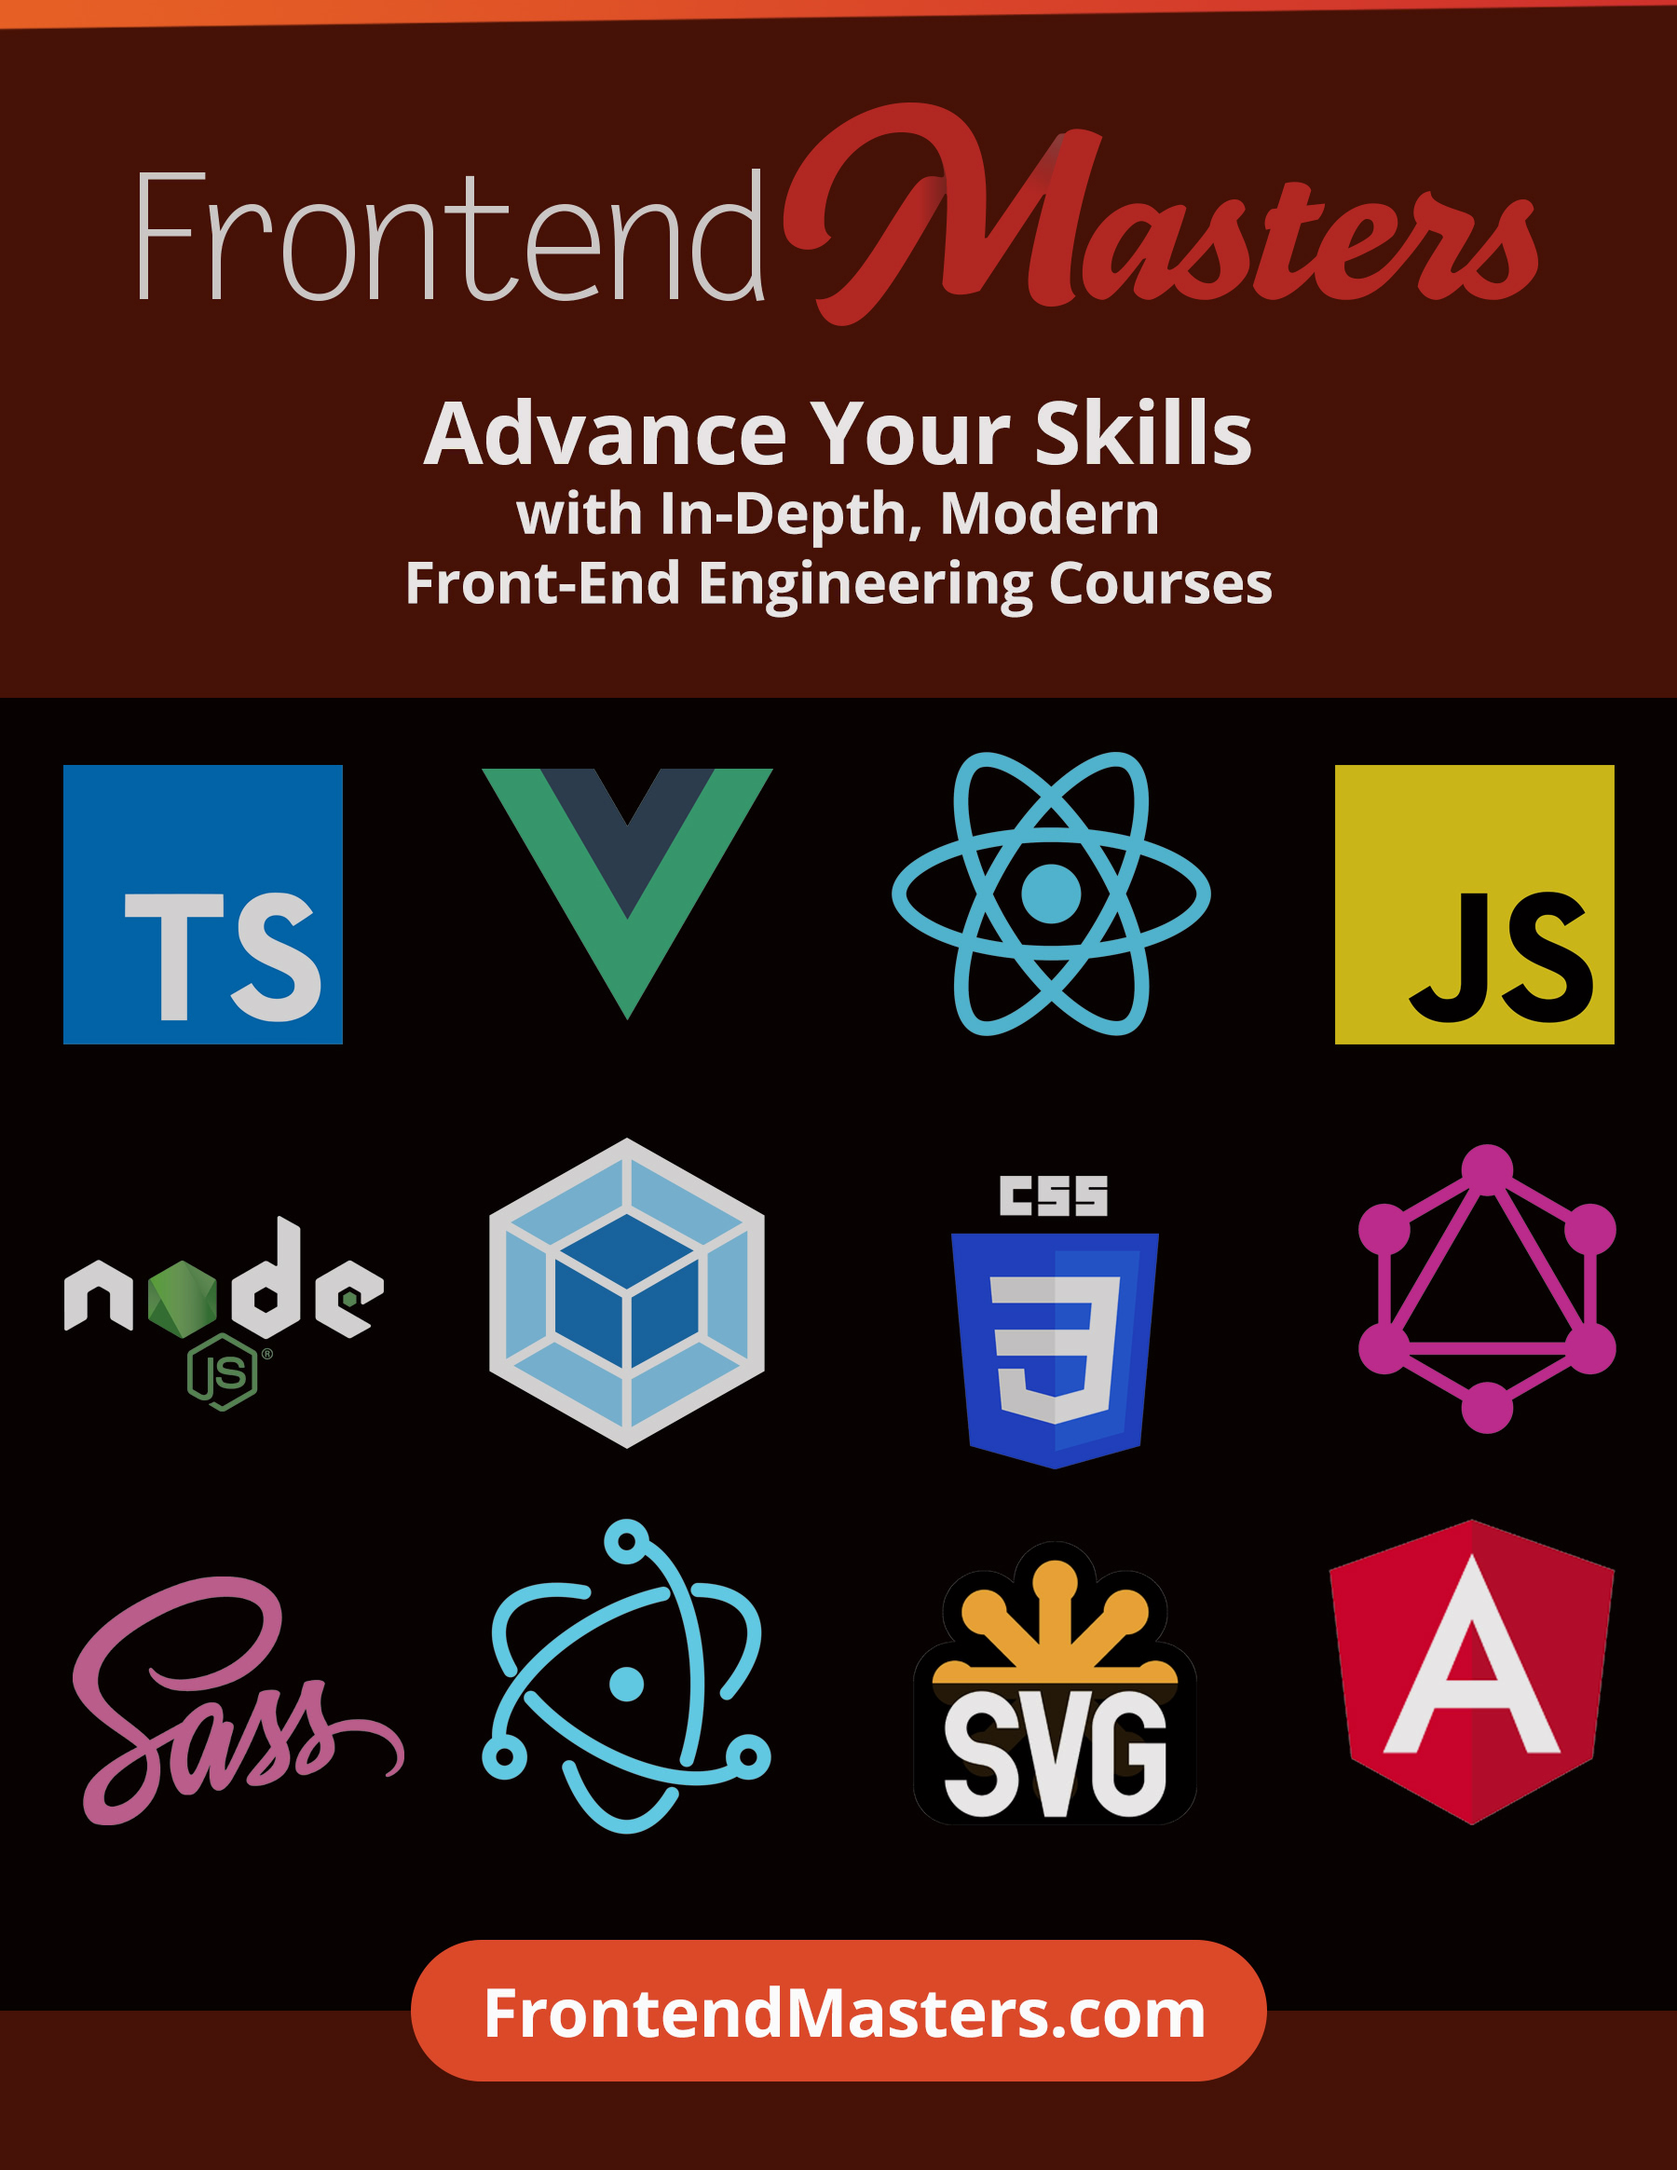
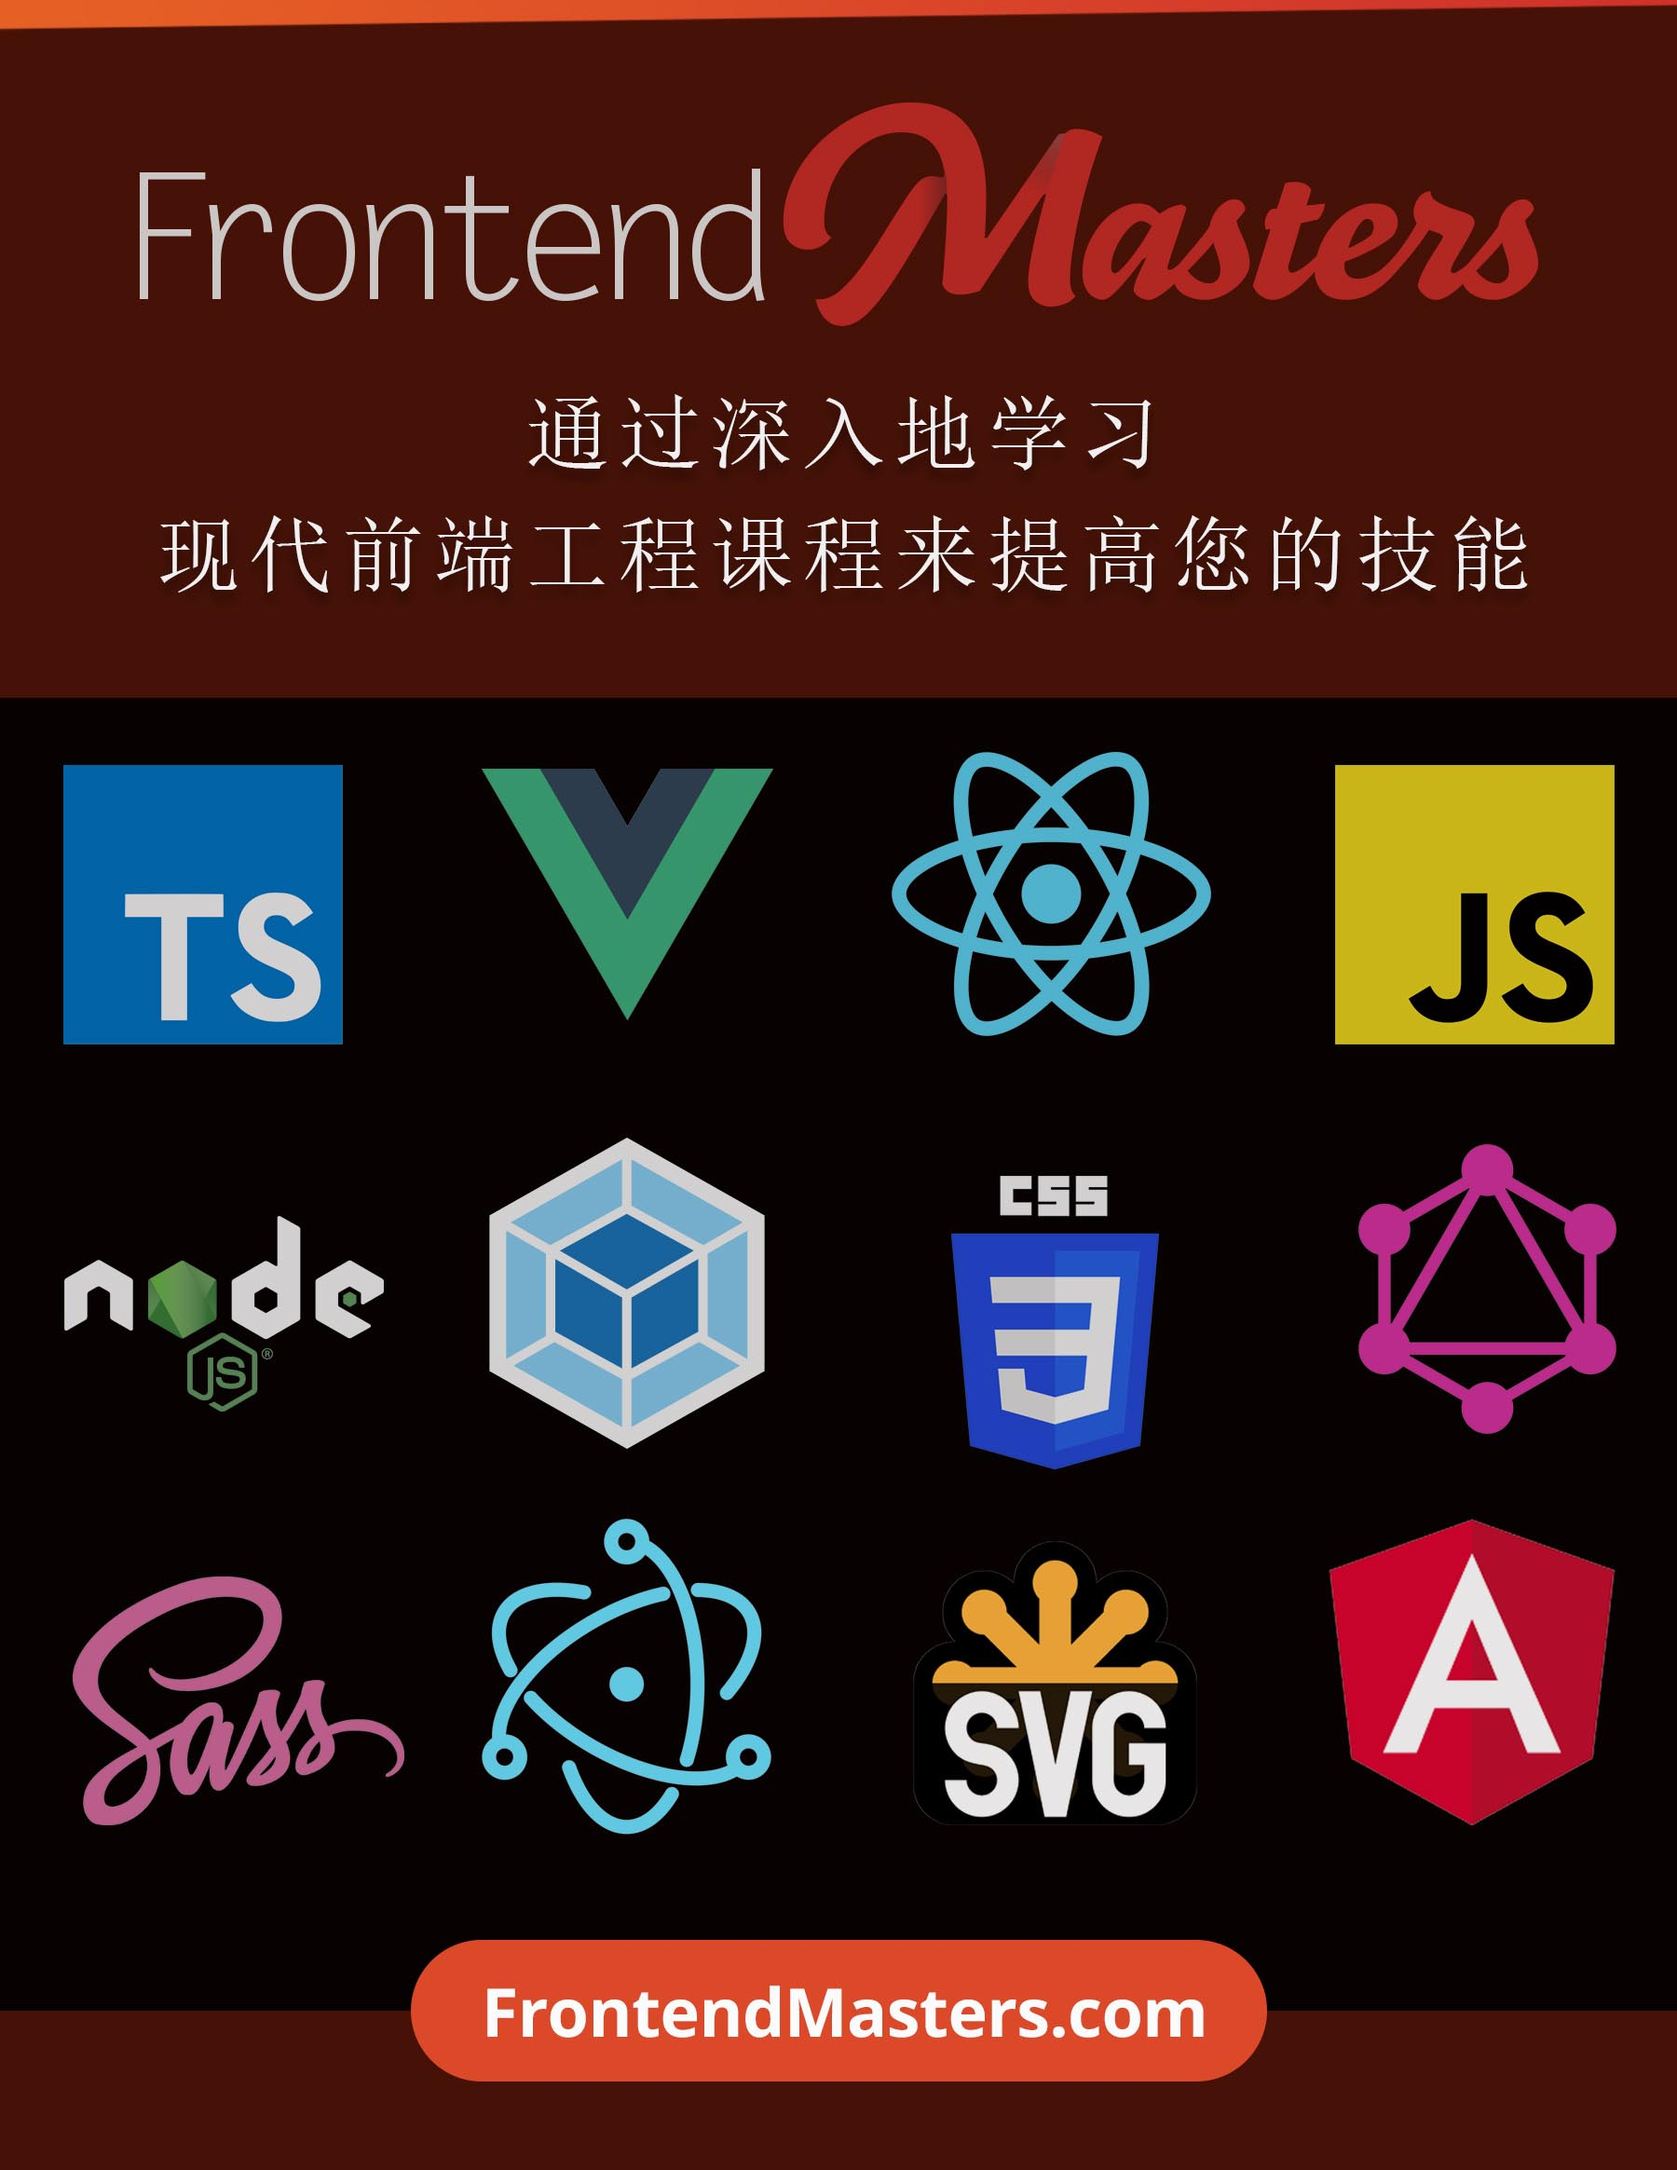
summary-practice 翻译完成

Changed region(s): [[0.0933, 0.1855, 0.9022, 0.2782]]

diff --git a/myIntro.md b/myIntro.md
@@ -1,43 +1,43 @@
-# Front-End Developer Handbook 2018
+# 2018 前端开发手册
 
-Written by [Cody Lindley](http://codylindley.com/) sponsored by — [Frontend Masters](https://frontendmasters.com/)
+由 [Cody Lindley](http://codylindley.com/)  撰写，[Frontend Masters](https://frontendmasters.com/) 提供赞助
 
 ![](cover.jpg)
 
-This is a guide that anyone could use to learn about the practice of front-end development. It broadly outlines and discusses the practice of front-end engineering: how to learn it and what tools are used when practicing it in 2018.
+这是任何人都可以用来了解前端开发实践的指南。 它概括地阐述和讨论了前端工程的实践：如何在2018年在实践中学习它以及使用什么样的工具。
 
-It is specifically written with the intention of being a professional resource for potential and currently practicing front-end developers to equip themselves with learning materials and development tools. Secondarily, it can be used by managers, CTOs, instructors, and head hunters to gain insights into the practice of front-end development.
+本书将有意成为一份专业资料，为想要或正在实践的前端开发者提供学习材料和开发工具。 其次，它可以被管理人员、CTO、讲师和猎头用来深入了解前端开发实践。
 
-The content of the handbook favors web technologies (HTML, CSS, DOM, and JavaScript) and those solutions that are directly built on top of these open technologies. The materials referenced and discussed in the book are either best in class or the current offering to a problem. 
+该手册的内容密切关注Web技术（HTML、CSS、DOM 和JavaScript）以及直接建立在这些开源技术之上的解决方案。 书中引用和讨论的材料要么是同类中最好的，要么是当前流行的解决办法。
 
-The book should not be considered a comprehensive outline of all resources available to a front-end developer. The value of the book is tied up in a terse, focused, and timely curation of just enough categorical information so as not to overwhelm anyone on any one particular subject matter.
+本书不应被视为前端开发人员可用的所有资源的全面概述。 本书的价值体现在对大量的分类信息进行简洁、有针对性和及时的整理，以免在某一特定主题下徘徊不定。
 
-The intention is to release an update to the content yearly.
+本书预计每年发布一次内容更新。
 
-The handbook is divided into the following three parts: 
+手册分为以下三部分：
 
-Part I. The Front-End Practice
+第一部分：前端实践
 ---
-Part one broadly describes the practice of front-end engineering.
+第一部分概述了前端工程实践。
 
-Part II: Learning Front-End Development
+第二部分：学习前端开发
 ---
-Part two identifies self-directed and direct resources for learning to become a front-end developer.
+第二部分指出了成为一个前端开发者所需的自我导向学习和定向学习的资源。
 
-Part III: Front-End Development Tools
+第三部分：前端开发工具
 ---
-Part three briefly explains and identifies tools of the trade.
+第三部分简要地介绍和指出了一些圈內的工具。
 
 ***
  
-**Download a .pdf, .epub, or .mobi file from**:
+**下载 .pdf, .epub, 或者 .mobi 文件请到**:
 
 * [https://frontendmasters.gitbooks.io/front-end-developer-handbook-2018/](https://frontendmasters.gitbooks.io/front-end-developer-handbook-2018/)
 
-**Contribute content, suggestions, and fixes on github**:
+**在github上贡献内容、提建议和修复bug**:
 
 * [https://github.com/FrontendMasters/front-end-handbook-2018](https://github.com/FrontendMasters/front-end-handbook-2018)
 
 ***
 
-<a rel="license" href="http://creativecommons.org/licenses/by-nc-nd/3.0/"><img alt="Creative Commons License" style="border-width:0" src="https://i.creativecommons.org/l/by-nc-nd/3.0/88x31.png" /></a><br />This work is licensed under a <a rel="license" href="http://creativecommons.org/licenses/by-nc-nd/3.0/">Creative Commons Attribution-NonCommercial-NoDerivs 3.0 Unported License</a>.
+<a rel="license" href="http://creativecommons.org/licenses/by-nc-nd/3.0/"><img alt="Creative Commons License" style="border-width:0" src="https://i.creativecommons.org/l/by-nc-nd/3.0/88x31.png" /></a><br />本文档基于<a rel="license" href="http://creativecommons.org/licenses/by-nc-nd/3.0/">Creative Commons Attribution-NonCommercial-NoDerivs 3.0 Unported License</a> 许可。

diff --git a/learning.md b/learning.md
@@ -1,5 +1,5 @@
-# Part II: Learning
+# 第二部分：学习
 
-Part two identifies self-directed (i.e., at your own pace when you want) and directed (i.e., formal class room specific times and dates) resources for learning to become a front-end developer.
+第二部分指出了自我导向学习（即按照你自己想要的步调）和定向学习（即在正式的课堂和在特定时间和日期）的资源，以便成为前端开发人员。
 
-Note that just because a learning resource is listed, or a category of learning is documented, I am not suggesting that a front-end developer learn everything. That would be absurd. Choose your own slice of expertise within the profession. I'm providing the possibilities of what could be mastered in the field.
+请注意，尽管列出了一系列的学习资源，或者记载了一个学习范畴，我也并不是说前端开发人员就要学习其中所有的内容。 这是一种非常荒谬的做法。 请选择跟你的专业知识相关的一个领域。我提供了在该领域有可能需要掌握的知识。

diff --git a/SUMMARY.md b/SUMMARY.md
@@ -56,7 +56,7 @@
         * [学习离线开发](learning/offline.md)
         * [学习 Web/浏览器/应用程序安全](learning/security.md)
         * [了解多设备开发（例如RWD）](learning/multi-device-dev.md)
-    * [有针对性的学习](learning/direct-learning.md)
+    * [定向学习](learning/direct-learning.md)
     	* [前端学校、课程和训练营](learning/courses.md)
     * [前端开发人员学习](learning/learn-from.md)
     * [通讯、新闻和播客](learning/news-podcasts.md)

diff --git a/practice.md b/practice.md
@@ -1,6 +1,6 @@
-# Part I. The Front-End Practice
+# 第一部分：前端实践
 
-Part one broadly describes the practice of front-end engineering.
+第一部分概括地描述了前端工程实践。
 
 
 

diff --git a/frontendmasters.md b/frontendmasters.md
@@ -1,1 +1,1 @@
-![Frontend Masters](frontendmasters.jpg "https://frontendmasters.com/")
+![前端大师](frontendmasters.jpg "https://frontendmasters.com/")
